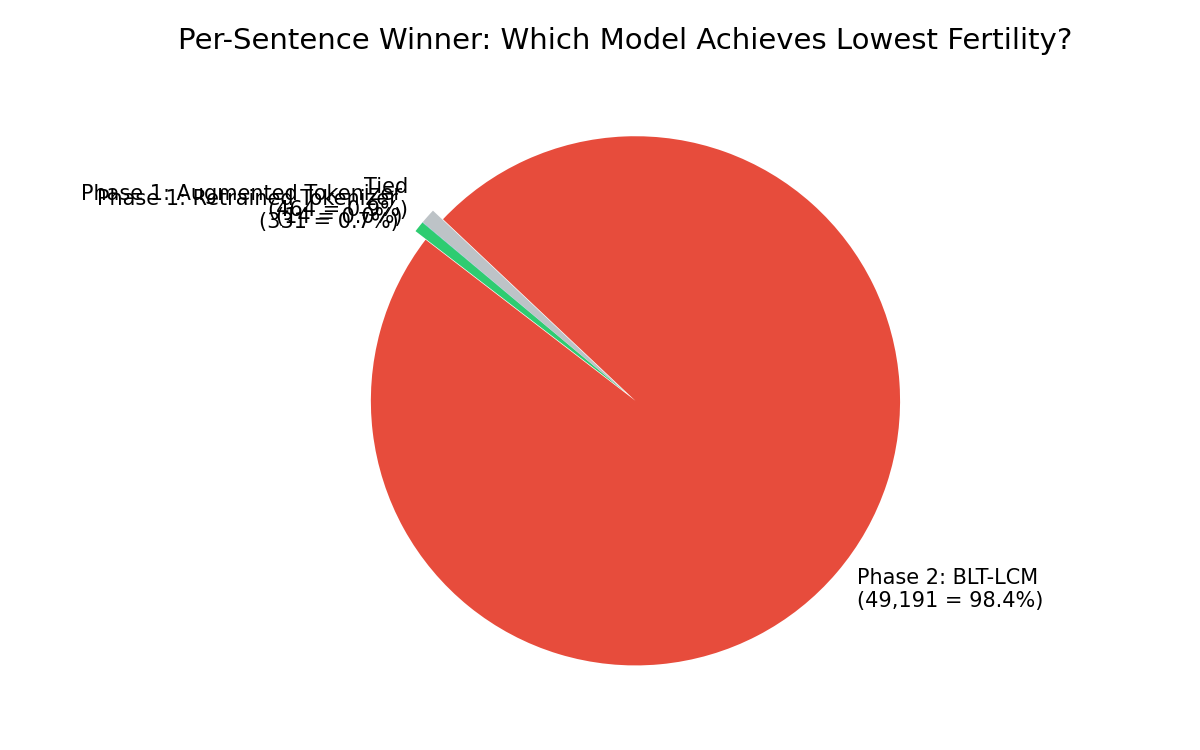
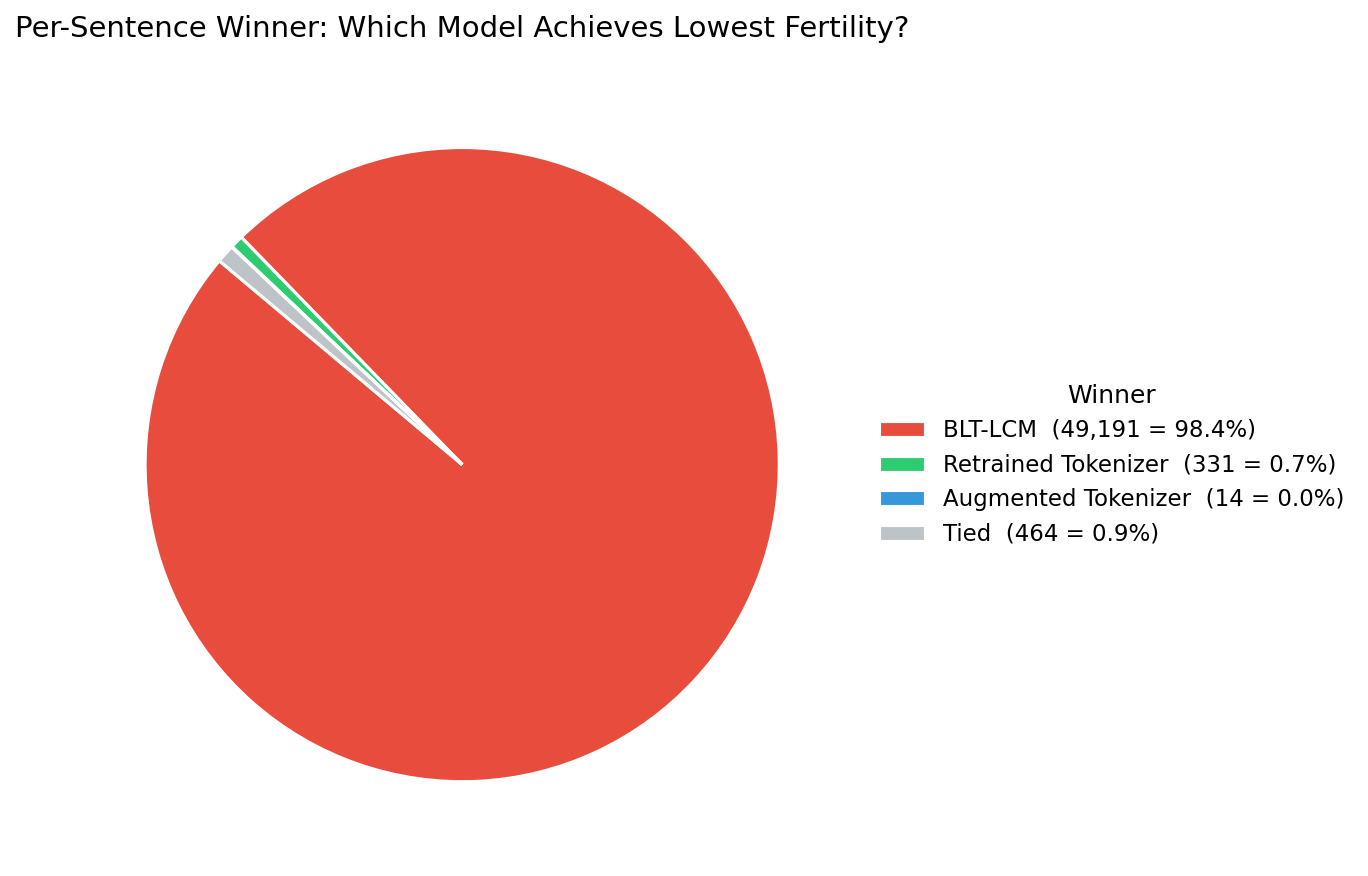
error analysis

Changed region(s): [[0.0617, 0.1533, 0.9867, 0.8893], [0.0, 0.0, 0.8942, 0.0613], [0.4933, 0.4907, 0.5242, 0.5213]]

diff --git a/error_analysis/plot_model_comparison.py b/error_analysis/plot_model_comparison.py
@@ -24,9 +24,9 @@ SCRIPT_DIR = os.path.dirname(os.path.abspath(__file__))
 DATA_PATH = os.path.join(SCRIPT_DIR, "all_sentences_scores.jsonl")
 
 MODEL_NAMES = [
-    "Phase 1: Augmented Tokenizer",
-    "Phase 1: Retrained Tokenizer",
-    "Phase 2: BLT-LCM",
+    "Augmented Tokenizer",
+    "Retrained Tokenizer",
+    "BLT-LCM",
 ]
 COLORS = ["#3498db", "#2ecc71", "#e74c3c"]
 
@@ -139,7 +139,7 @@ for bar, m in zip(bars, means):
     ax.text(bar.get_x() + bar.get_width() / 2, bar.get_height() + 0.02,
             f"{m:.4f}", ha="center", va="bottom", fontweight="bold", fontsize=12)
 ax.set_ylabel("Mean Fertility (tokens or patches per word)")
-ax.set_title("Mean Fertility: Phase 1 Augmented vs Phase 1 Retrained vs Phase 2 BLT-LCM")
+ax.set_title("Mean Fertility: Augmented Tokenizer vs Retrained Tokenizer vs BLT-LCM")
 ax.set_ylim(0, max(means) + max(stds) + 0.15)
 ax.spines["top"].set_visible(False)
 ax.spines["right"].set_visible(False)
@@ -161,7 +161,7 @@ ax.axvline(fert_ret.mean(), color=COLORS[1], linestyle="--", linewidth=1.5)
 ax.axvline(fert_blt.mean(), color=COLORS[2], linestyle="--", linewidth=1.5)
 ax.set_xlabel("Fertility (tokens or patches per word)")
 ax.set_ylabel("Density")
-ax.set_title("Fertility Distribution: Phase 1 Augmented vs Phase 1 Retrained vs Phase 2 BLT-LCM")
+ax.set_title("Fertility Distribution: Augmented Tokenizer vs Retrained Tokenizer vs BLT-LCM")
 ax.legend(frameon=False)
 ax.spines["top"].set_visible(False)
 ax.spines["right"].set_visible(False)
@@ -195,7 +195,7 @@ ax.set_xticks(x)
 ax.set_xticklabels(bucket_labels)
 ax.set_xlabel("Sentence Length (words)")
 ax.set_ylabel("Mean Fertility")
-ax.set_title("Mean Fertility by Sentence Length: Phase 1 Augmented vs Phase 1 Retrained vs Phase 2 BLT-LCM")
+ax.set_title("Mean Fertility by Sentence Length: Augmented Tokenizer vs Retrained Tokenizer vs BLT-LCM")
 ax.legend(frameon=False)
 ax.spines["top"].set_visible(False)
 ax.spines["right"].set_visible(False)
@@ -207,28 +207,30 @@ print("Saved cmp3_fertility_by_length.png")
 # =====================================================================
 # FIGURE 4: Win/Tie/Loss Matrix (which model is best per sentence)
 # =====================================================================
-fig, ax = plt.subplots(figsize=(8, 5))
+fig, ax = plt.subplots(figsize=(10, 6))
 
 best_aug = ((fert_aug < fert_ret) & (fert_aug < fert_blt)).sum()
 best_ret = ((fert_ret < fert_aug) & (fert_ret < fert_blt)).sum()
 best_blt = ((fert_blt < fert_aug) & (fert_blt < fert_ret)).sum()
 tied = N - best_aug - best_ret - best_blt
 
-labels_pie = [
-    f"{MODEL_NAMES[0]}\n({best_aug:,} = {100*best_aug/N:.1f}%)",
-    f"{MODEL_NAMES[1]}\n({best_ret:,} = {100*best_ret/N:.1f}%)",
-    f"{MODEL_NAMES[2]}\n({best_blt:,} = {100*best_blt/N:.1f}%)",
-    f"Tied\n({tied:,} = {100*tied/N:.1f}%)",
+sizes = [best_blt, best_ret, best_aug, tied]
+colors_pie = [COLORS[2], COLORS[1], COLORS[0], "#bdc3c7"]
+legend_labels = [
+    f"BLT-LCM  ({best_blt:,} = {100*best_blt/N:.1f}%)",
+    f"Retrained Tokenizer  ({best_ret:,} = {100*best_ret/N:.1f}%)",
+    f"Augmented Tokenizer  ({best_aug:,} = {100*best_aug/N:.1f}%)",
+    f"Tied  ({tied:,} = {100*tied/N:.1f}%)",
 ]
-sizes = [best_aug, best_ret, best_blt, tied]
-colors_pie = COLORS + ["#bdc3c7"]
-explode = (0, 0, 0.05, 0)
-wedges, texts, autotexts = ax.pie(sizes, labels=labels_pie, colors=colors_pie,
-                                   explode=explode, autopct="", startangle=140,
-                                   textprops={"fontsize": 10})
-ax.set_title("Per-Sentence Winner: Which Model Achieves Lowest Fertility?")
+wedges, _ = ax.pie(sizes, colors=colors_pie, startangle=140,
+                    wedgeprops=dict(edgecolor="white", linewidth=1.5))
+ax.legend(wedges, legend_labels, title="Winner", loc="center left",
+          bbox_to_anchor=(1.0, 0.5), fontsize=11, title_fontsize=12,
+          frameon=False)
+ax.set_title("Per-Sentence Winner: Which Model Achieves Lowest Fertility?",
+             fontsize=14, pad=15)
 plt.tight_layout()
-plt.savefig(os.path.join(SCRIPT_DIR, "cmp4_winner_pie.png"))
+plt.savefig(os.path.join(SCRIPT_DIR, "cmp4_winner_pie.png"), bbox_inches="tight")
 plt.close()
 print("Saved cmp4_winner_pie.png")
 
@@ -242,7 +244,7 @@ for fert, name, color in zip([fert_aug, fert_ret, fert_blt], MODEL_NAMES, COLORS
     ax.plot(sorted_f, cdf, color=color, linewidth=2, label=name)
 ax.set_xlabel("Fertility (tokens or patches per word)")
 ax.set_ylabel("Cumulative Proportion of Sentences")
-ax.set_title("Cumulative Distribution: Phase 1 Augmented vs Phase 1 Retrained vs Phase 2 BLT-LCM")
+ax.set_title("Cumulative Distribution: Augmented Tokenizer vs Retrained Tokenizer vs BLT-LCM")
 ax.set_xlim(0.8, 3.0)
 ax.legend(frameon=False)
 ax.grid(alpha=0.2)
@@ -269,15 +271,15 @@ for ax, fert_p1, name, color in zip(axes, [fert_aug, fert_ret],
     ax.set_xlim(lims)
     ax.set_ylim(lims)
     ax.set_xlabel(f"{name}\nFertility")
-    ax.set_ylabel("Phase 2: BLT-LCM Fertility")
+    ax.set_ylabel("BLT-LCM Fertility")
     blt_wins = (fert_blt[subsample] < fert_p1[subsample]).sum()
     p1_wins = (fert_p1[subsample] < fert_blt[subsample]).sum()
     ties = len(subsample) - blt_wins - p1_wins
-    ax.set_title(f"BLT-LCM vs {name.split(': ')[1]}\nBLT wins: {blt_wins} | {name.split(': ')[1]} wins: {p1_wins} | Tied: {ties}")
+    ax.set_title(f"BLT-LCM vs {name}\nBLT wins: {blt_wins} | {name} wins: {p1_wins} | Tied: {ties}")
     ax.spines["top"].set_visible(False)
     ax.spines["right"].set_visible(False)
 
-plt.suptitle("Pairwise Fertility Comparison: Phase 2 BLT-LCM vs Phase 1 Tokenizers",
+plt.suptitle("Pairwise Fertility Comparison: BLT-LCM vs Tokenizers",
              fontsize=14, fontweight="bold", y=1.02)
 plt.tight_layout()
 plt.savefig(os.path.join(SCRIPT_DIR, "cmp6_pairwise_scatter.png"), bbox_inches="tight")
@@ -298,7 +300,7 @@ for bar, m in zip(bars, means_eff):
     ax.text(bar.get_x() + bar.get_width() / 2, bar.get_height() + 0.002,
             f"{m:.4f}", ha="center", va="bottom", fontweight="bold", fontsize=12)
 ax.set_ylabel("Tokens (or Patches) per Byte")
-ax.set_title("Compression Efficiency: Phase 1 Augmented vs Phase 1 Retrained vs Phase 2 BLT-LCM\n(lower = more compressed)")
+ax.set_title("Compression Efficiency: Augmented Tokenizer vs Retrained Tokenizer vs BLT-LCM\n(lower = more compressed)")
 ax.spines["top"].set_visible(False)
 ax.spines["right"].set_visible(False)
 plt.tight_layout()
@@ -330,7 +332,7 @@ ax.text(0.98, 0.97, stats_text, transform=ax.transAxes, fontsize=9,
         va="top", ha="right", family="monospace",
         bbox=dict(boxstyle="round,pad=0.4", facecolor="lightyellow", alpha=0.8))
 ax.set_ylabel("Fertility (tokens or patches per word)")
-ax.set_title("Fertility Distribution: Phase 1 Augmented vs Phase 1 Retrained vs Phase 2 BLT-LCM")
+ax.set_title("Fertility Distribution: Augmented Tokenizer vs Retrained Tokenizer vs BLT-LCM")
 ax.spines["top"].set_visible(False)
 ax.spines["right"].set_visible(False)
 plt.tight_layout()
